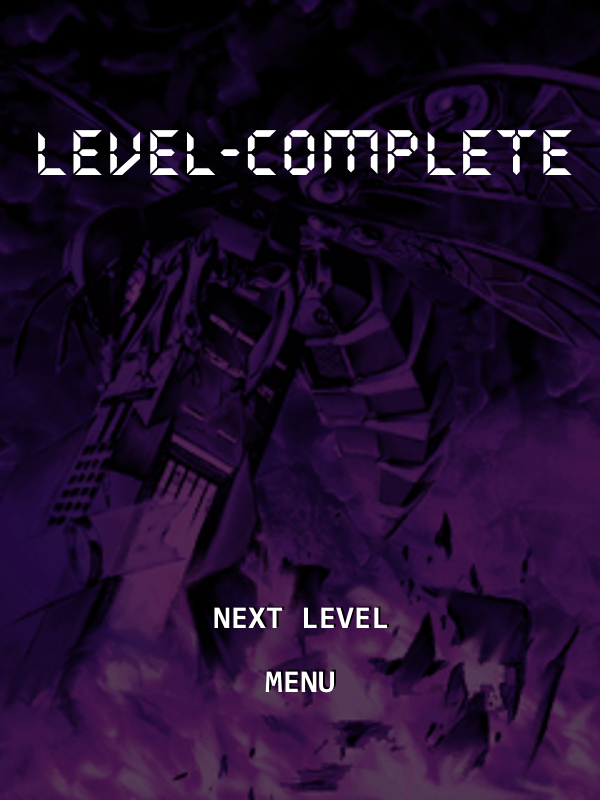
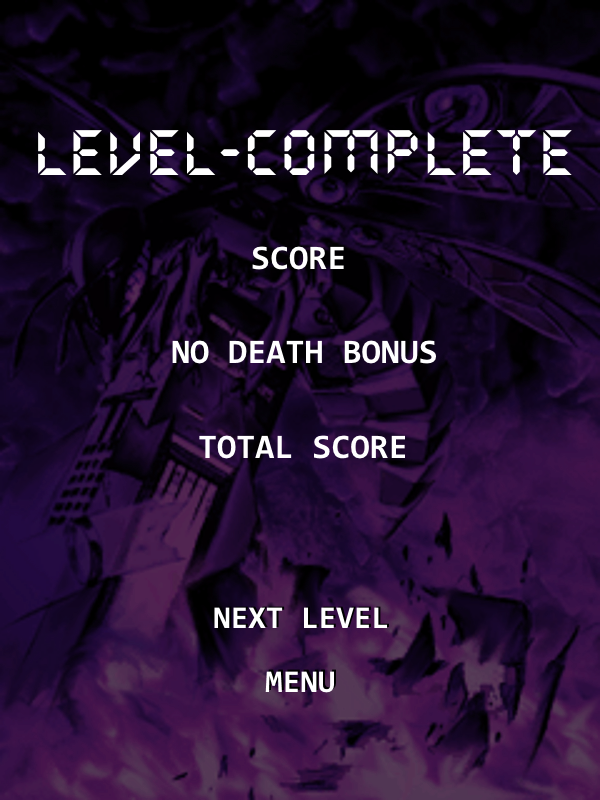
Last Change

diff --git a/SMFL/SMFL.cpp b/SMFL/SMFL.cpp
@@ -49,6 +49,7 @@ byte prevGameMode = gameMode;
 std::vector<sf::Text> highscores(10);
 sf::RectangleShape cursor;
 byte cursorNum = 1;
+int timer = 0;
 byte cursorOffset = 62;
 byte numOfHighScores = 10;
 bool updateScores = true;
@@ -64,7 +65,7 @@ std::vector<sf::Texture> m_backGroundTex;
 sf::Vector2f screenDimensions = sf::Vector2f(600, 800);
 int fps = 0;
 sf::Font font;
-sf::Text text, cScoreTxt, hScoreTxt, livesTxt;
+sf::Text text, cScoreTxt, hScoreTxt, livesTxt, bonusTxt, oScoreTxt;
 ReverbButton reverbButton = ReverbButton(sf::IntRect(5, 690, 200, 20));
 ThreeDeeSoundButton threeDeeButton = ThreeDeeSoundButton(sf::IntRect(5, 750, 200, 20));
 DopplerButton dopplerButton = DopplerButton(sf::IntRect(5, 720, 200, 20));
@@ -78,10 +79,12 @@ void ResetGame()
 {
 	updateScores = true;
 	shakeScreen = false;
+
+
 	if (player.GetLivesNum() != 0)
 	{
-		level = Level(*&m_backGroundTex, screenDimensions);
 		tempCurrLevelNum++;
+		level = Level(*&m_backGroundTex, screenDimensions);
 		level.ChangeLevel(tempCurrLevelNum);
 		int playerLives = player.GetLivesNum();
 		player = Player(*&m_tex, sf::Vector2f(280, 600));
@@ -89,8 +92,10 @@ void ResetGame()
 
 	}
 	else
+	{
 		player = Player(*&m_tex, sf::Vector2f(280, 600));
-
+		tempCurrLevelNum == 0;
+	}
 
 	BulletManager::Instance().Reset();
 	EnemyManager::Instance().Reset(level.GetLevelCount());
@@ -115,7 +120,6 @@ void Init()
 		highscores.at(i).setCharacterSize(30);
 	}
 	SoundManager::Instance().PlaySoundBG(SoundManager::TITLE_SFX, 7);
-
 }
 void LoadContent()
 {
@@ -226,6 +230,16 @@ void(UpdateGame())
 		SoundManager::Instance().PlaySFX(SoundManager::GAMEOVER_SFX);
 	}
 
+	if (EnemyManager::Instance().GetBoss()->CheckIfExploding())
+	{
+		timer += deltaTime.asSeconds();
+		if (timer > 1)
+		{
+			timer = 0;
+			SoundManager::Instance().PlaySFX(SoundManager::PLAYEREXPLOSION_SFX);
+		}
+	}
+
 }
 void(UpdateLevelComplete())
 {
@@ -261,7 +275,10 @@ void(UpdateLevelComplete())
 				SoundManager::Instance().PlaySoundBG(SoundManager::SoundsList::BACKGROUND_MUSIC_LEVEL_1, 0);
 			else
 				SoundManager::Instance().PlaySoundBG(SoundManager::SoundsList::BACKGROUND_MUSIC_LEVEL_2, 9);
-			tempCurrLevelNum++;
+			cScoreTxt.setPosition(40, 30);
+			cScoreTxt.setCharacterSize(22);
+
+
 		}
 		else if (cursorNum == OPTIONS)
 		{
@@ -273,6 +290,8 @@ void(UpdateLevelComplete())
 			SoundManager::Instance().StopAllSounds();
 			SoundManager::Instance().PlaySoundBG(SoundManager::SoundsList::TITLE_SFX, 7);
 			ResetGame();
+			cScoreTxt.setPosition(40, 30);
+			cScoreTxt.setCharacterSize(22);
 		}
 	}
 
@@ -369,19 +388,39 @@ void(DrawGame(sf::RenderWindow &p_window, sf::View &p_view))
 		p_window.setView(p_view);
 		gameMode = LEVELCOMPLETE;
 		cursor.setPosition(sf::Vector2f(cursor.getPosition().x, 536 + cursorOffset));
-	}
+		if (player.GetLivesNum() == 5)
+		{
+			oScoreTxt.setString(cScoreTxt.getString());
+			bonusTxt.setString("000005000");
+			std::string tempx = oScoreTxt.getString();
+			int temp1 = std::stoi(tempx);
 
-	if (!shakeScreen)
-	{
-		if (EnemyManager::Instance().GetBoss()->CheckIfExploding())
-			shakeScreen = true;
-	}
-	else
-	{
-		p_view.reset(sf::FloatRect(rand() % 21 + (-10), rand() % 21 + (-10), 600, 800));
-		p_window.setView(p_view);
-	}
+			std::string tempy = bonusTxt.getString();
+			int temp2 = std::stoi(tempy);
+			int result = temp1 + temp2;
+			Score::Instance().currentScore += 5000;
+			cScoreTxt.setString(std::string(9 - std::to_string(result).size(), '0') + std::to_string(result));
+		}
+		else
+		{
+			oScoreTxt.setString(cScoreTxt.getString());
+			bonusTxt.setString("000000000");
+		}
+		cScoreTxt.setPosition(220, 460);
+		cScoreTxt.setCharacterSize(30);
 
+		if (!shakeScreen)
+		{
+			if (EnemyManager::Instance().GetBoss()->CheckIfExploding())
+				shakeScreen = true;
+		}
+		else
+		{
+			p_view.reset(sf::FloatRect(rand() % 21 + (-10), rand() % 21 + (-10), 600, 800));
+			p_window.setView(p_view);
+		}
+
+	}
 
 }
 void(DrawGameOver(sf::RenderWindow &p_window))
@@ -391,7 +430,11 @@ void(DrawGameOver(sf::RenderWindow &p_window))
 }
 void(DrawLevelComplete(sf::RenderWindow &p_window))
 {
+
 	p_window.draw(levelCompSpr);
+	p_window.draw(oScoreTxt);
+	p_window.draw(bonusTxt);
+	p_window.draw(cScoreTxt);
 	p_window.draw(cursor);
 }
 void(DrawOptions(sf::RenderWindow &p_window))
@@ -536,6 +579,14 @@ int main()
 	livesTxt.setFont(font);
 	livesTxt.setCharacterSize(22);
 	livesTxt.setPosition(60, 60);
+
+	bonusTxt.setFont(font);
+	bonusTxt.setPosition(sf::Vector2f(220, 366));
+	bonusTxt.setString("000000000");
+
+	oScoreTxt.setFont(font);
+	oScoreTxt.setPosition(sf::Vector2f(220,270));
+	oScoreTxt.setString("000000000");
 
 
 	// Load Content
